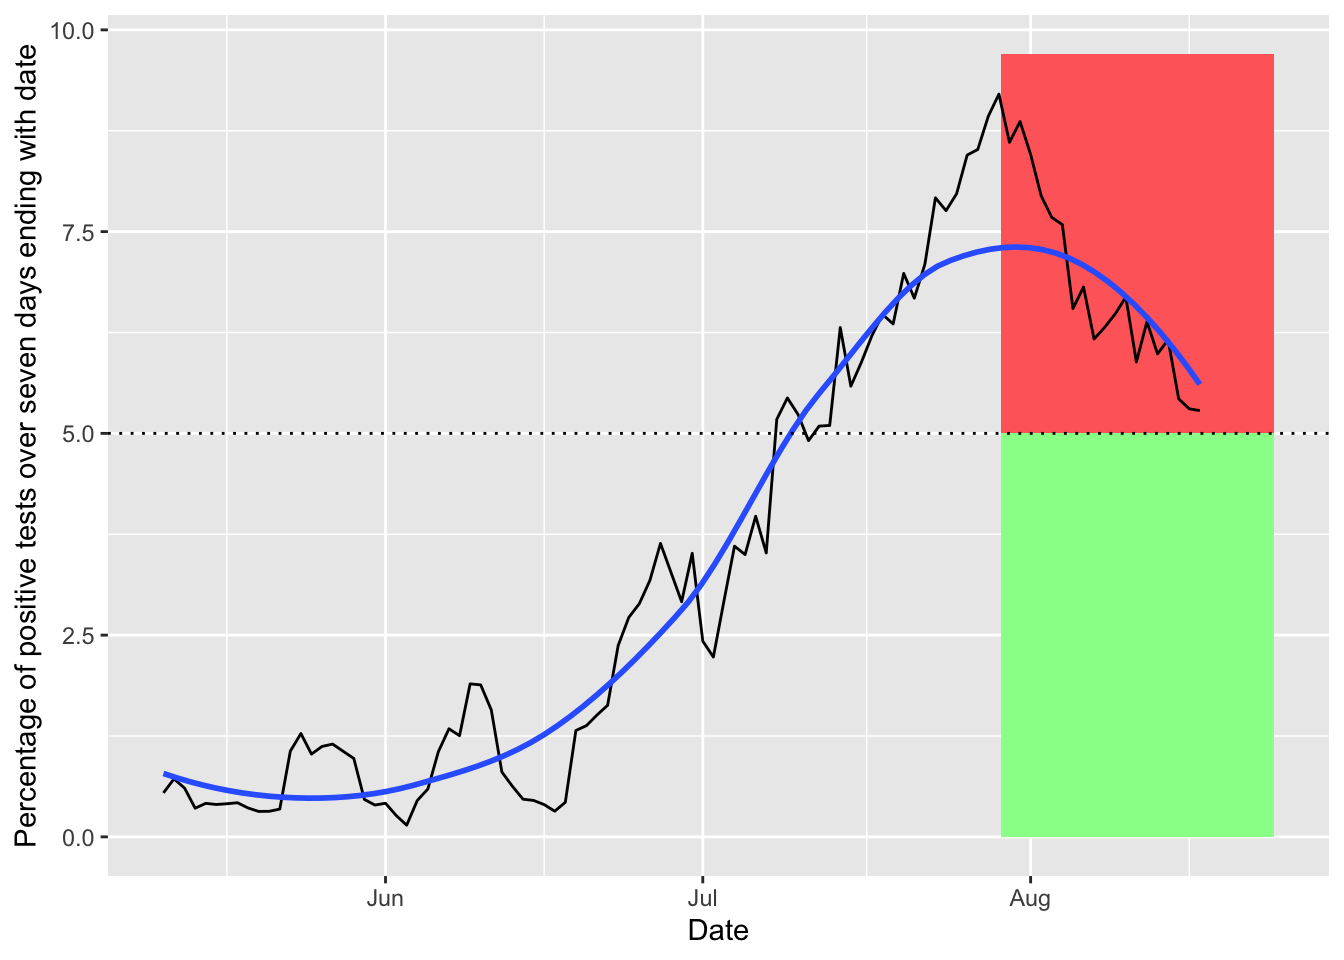
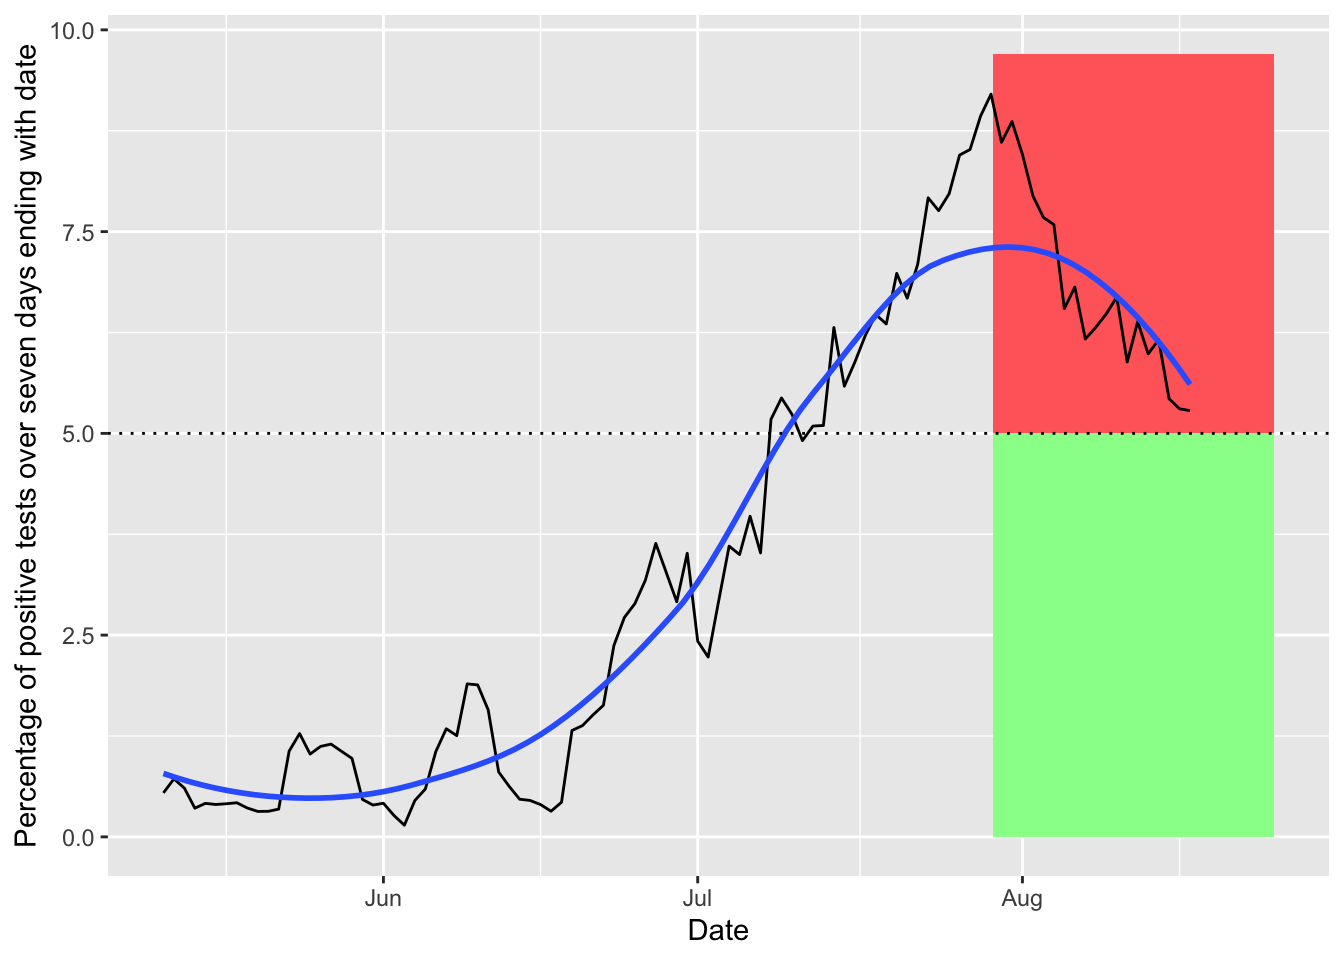
updating site

diff --git a/docs/covid.html b/docs/covid.html
@@ -423,7 +423,7 @@ $(document).ready(function () {
 <li>Info about cases at <a href="#ut">U. of Tennessee, Knoxville</a> (using public information only)</li>
 <li><a href="#webcams">Webcams</a> showing activity at local sites, though not quite at the resolution to point to mask usage or not</li>
 </ul>
-<p>The following plots are created in R using data from <a href="https://covid19datahub.io" class="uri">https://covid19datahub.io</a> (Guidotti, E., Ardia, D., (2020), “COVID-19 Data Hub”, Working paper, doi: 10.13140/RG.2.2.11649.81763), as well as information from Google and the <a href="https://www.tn.gov/health/cedep/ncov/data/downloadable-datasets.html">state of Tennessee dataset page</a> and plotting and analysis using the <code>forecast</code>, <code>ggplot2</code>, <code>reshape2</code>, and <code>dplyr</code> packages. Plots created on 2020-08-17 21:59:01. I use <code>ggplot2</code>’s <code>geom_smooth()</code> function for the smoothed regression plots with its default formula, which uses loess smoothing for this many points. This is not based on a model of disease spread or anything similarly sophisticated, just drawing a smooth curve to summarize noisy points (see <a href="https://www.itl.nist.gov/div898/handbook/pmd/section1/pmd144.htm">here</a> for more details).</p>
+<p>The following plots are created in R using data from <a href="https://covid19datahub.io" class="uri">https://covid19datahub.io</a> (Guidotti, E., Ardia, D., (2020), “COVID-19 Data Hub”, Working paper, doi: 10.13140/RG.2.2.11649.81763), as well as information from Google and the <a href="https://www.tn.gov/health/cedep/ncov/data/downloadable-datasets.html">state of Tennessee dataset page</a> and plotting and analysis using the <code>forecast</code>, <code>ggplot2</code>, <code>reshape2</code>, and <code>dplyr</code> packages. Plots created on 2020-08-18 11:24:17. I use <code>ggplot2</code>’s <code>geom_smooth()</code> function for the smoothed regression plots with its default formula, which uses loess smoothing for this many points. This is not based on a model of disease spread or anything similarly sophisticated, just drawing a smooth curve to summarize noisy points (see <a href="https://www.itl.nist.gov/div898/handbook/pmd/section1/pmd144.htm">here</a> for more details).</p>
 <h2 id="cases">
 Cases
 </h2>
@@ -459,7 +459,7 @@ Schooling
 <h2 id="hospitalization">
 Hospitalization
 </h2>
-<p>As of the last time the data were updated (likely 5 days ago), regional hospitals had 83 ICU beds available of 278 total, and 170 available ventilators out of 250 total. This is based on 19 acute care hospitals in the East TN region; based on the 14 counties these hospitals are in, these serve at least 1,235,720 people. When a line hits 100%, the local hospitals are theoretically full for that resource (for all patients, not just covid patients), though there is surge capacity on top of this. Note that these data are updated only weekly, so current conditions maybe be much better or worse than these plots show. Data on capacity from Knox County’s dashboard, data on hospitalizations and testing over time from the state data.</p>
+<p>As of the last time the data were updated (likely 6 days ago), regional hospitals had 83 ICU beds available of 278 total, and 170 available ventilators out of 250 total. This is based on 19 acute care hospitals in the East TN region; based on the 14 counties these hospitals are in, these serve at least 1,235,720 people. When a line hits 100%, the local hospitals are theoretically full for that resource (for all patients, not just covid patients), though there is surge capacity on top of this. Note that these data are updated only weekly, so current conditions maybe be much better or worse than these plots show. Data on capacity from Knox County’s dashboard, data on hospitalizations and testing over time from the state data.</p>
 <p><img src="covid_files/figure-html/hospitalcapacityplot-1.png" width="672" /></p>
 <p>Trends in hospitalization of covid patients over time. The vertical dotted line shows the last day with updated capacity information, when there were 83 ICU beds available (ignoring surge capacity) for people in the East Tennessee region.</p>
 <p><img src="covid_files/figure-html/plotsD-1.png" width="672" /></p>
@@ -473,7 +473,7 @@ Ages
 <h2 id="ut">
 University of Tennessee, Knoxville
 </h2>
-<p>Another question is what is happening at UT as campus opens up and testing ramps up. Earlier dashboards with data have been taken down by UT, but there is some information available at <a href="https://www.utk.edu/coronavirus/guides/data-monitoring-and-contingency-options" class="uri">https://www.utk.edu/coronavirus/guides/data-monitoring-and-contingency-options</a>.</p>
+<p>Another question is what is happening at UT as campus opens up and testing ramps up. There is some information available at <a href="https://www.utk.edu/coronavirus/guides/data-monitoring-and-contingency-options" class="uri">https://www.utk.edu/coronavirus/guides/data-monitoring-and-contingency-options</a>, of which I show one figure below. There are also reports in the news media, such as <a href="https://www.knoxnews.com/story/sports/college/university-of-tennessee/football/2020/08/17/tennessee-football-covid-19-cases-jeremy-pruitt-vols/5586379002/">this article from Aug. 18</a> showing that 23 of 91 football players (over 25%) have had positive covid tests since returning but before the start of classes. For context, if the other undergraduates get infected at the same proportion (and assuming the number of undergraduates is the same as Fall 2019), that would be 5,863 cases, slightly more than all the confirmed and probable cases in Knox County (5,686 cases) up to Aug. 18, 2020.</p>
 <iframe src="https://datastudio.google.com/embed/reporting/bb71d0fd-2817-4e14-9f84-7f74a1e503b5/page/Qr2ZB" width="600" height="300">
 </iframe>
 <hr />
